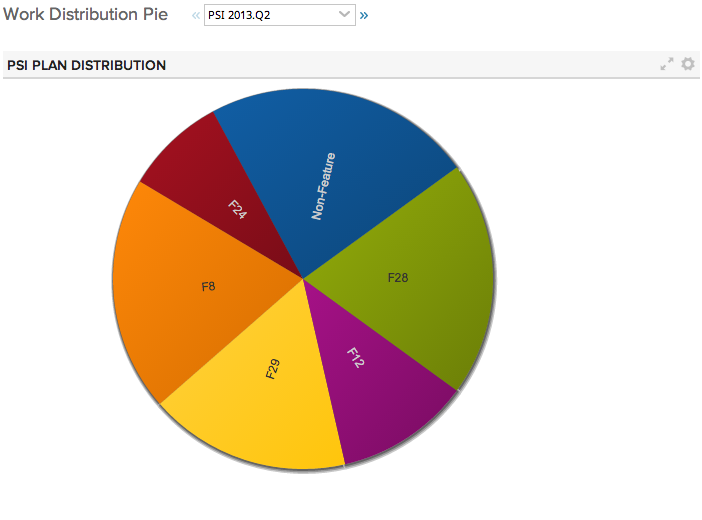
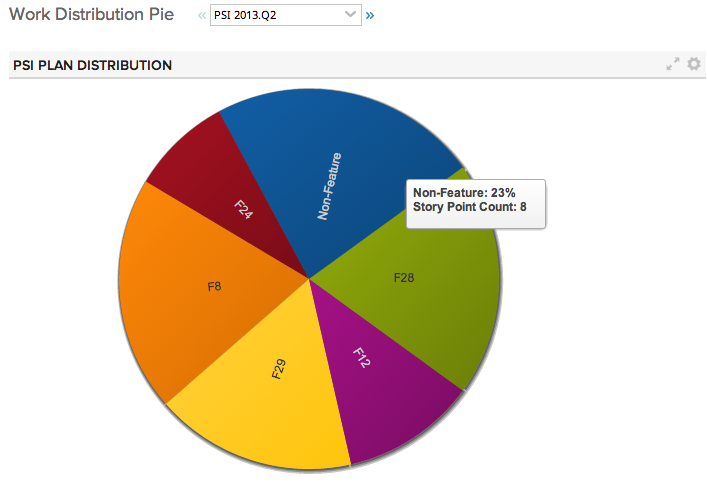
updated screenshot with tip details

diff --git a/deploy/App.html b/deploy/App.html
@@ -7,7 +7,7 @@
 
     <script type="text/javascript">
         Rally.onReady(function () {
-                Ext.define("CustomApp",{extend:"Rally.app.TimeboxScopedApp",componentCls:"app",scopeType:"release",comboboxConfig:{fieldLabel:"Select an Release:",labelWidth:100,width:300},addContent:function(){this._makeStore()},_makeStore:function(){Ext.create("Rally.data.WsapiDataStore",{model:"HierarchicalRequirement",autoLoad:!0,fetch:["Name","FormattedID","Release","ObjectID","Feature","PortfolioItem","PlanEstimate"],filters:[this.getContext().getTimeboxScope().getQueryFilter()],listeners:{load:function(store,data){console.log(["store",data]),this._countPointsByCategory(data)},scope:this}})},onScopeChange:function(){this._makeStore()},_countPointsByCategory:function(records){console.log("_countPointsByCategory");var me=this,counts={},counter=0,total=0;Ext.Array.each(records,function(record){var category="",points=record.get("PlanEstimate")||0;if(null===record.get("Feature"))category="Non-Feature";else{var PIobject=record.get("Feature");category=PIobject.FormattedID}console.log("Record: "+record.get("FormattedID")+" PI: "+category),counts[category]||(counts[category]=0),counts[category]+=points,console.log(counts),total+=points,counter++}),console.log(["for ",counter," records: ",counts]);var count_array=[];for(var category in counts)counts.hasOwnProperty(category)&&count_array.push({name:category,count:counts[category],percentage:100*counts[category]/total});this._showPie(count_array)},_showPie:function(count_array){console.log(["_showPie",count_array]);var me=this,int_array=[];Ext.Array.each(count_array,function(item){int_array.push([item.name,item.percentage])});var mystore=Ext.create("Rally.data.custom.Store",{data:count_array});console.log("change!",mystore),this.chart&&this.chart.destroy(),this.chart=Ext.create("Ext.chart.Chart",{title:{text:"Work Types"},width:600,height:400,store:mystore,theme:"Base:gradients",series:[{type:"pie",allowPointSelect:!1,angleField:"percentage",showInLegend:!0,tips:{trackMouse:!0,width:140,height:50,renderer:function(storeItem,item){this.setTitle(storeItem.get("name")+": "+Math.round(storeItem.get("percentage"),3)+"%<br>Story Point Count: "+storeItem.get("count"))}},label:{field:"name",display:"rotate",contrast:!0,font:"12px Arial"}}]}),console.log("chart made"),me.add(this.chart),this._hideMask(),console.log("chart done")},_showMask:function(msg){this.getEl()&&(this.getEl().unmask(),this.getEl().mask(msg))},_hideMask:function(){this.getEl().unmask()}});
+                Ext.define("CustomApp",{extend:"Rally.app.TimeboxScopedApp",componentCls:"app",scopeType:"release",comboboxConfig:{fieldLabel:"Select an Release:",labelWidth:100,width:300},addContent:function(){this._makeStore()},_makeStore:function(){Ext.create("Rally.data.WsapiDataStore",{model:"HierarchicalRequirement",autoLoad:!0,fetch:["Name","FormattedID","Release","ObjectID","Feature","PortfolioItem","PlanEstimate"],filters:[this.getContext().getTimeboxScope().getQueryFilter()],listeners:{load:function(store,data){console.log(["store",data]),this._countPointsByCategory(data)},scope:this}})},onScopeChange:function(){this._makeStore()},_countPointsByCategory:function(records){console.log("_countPointsByCategory");var me=this,counts={},counter=0,total=0;Ext.Array.each(records,function(record){var category="",points=record.get("PlanEstimate")||0;if(null===record.get("Feature"))category="Non-Feature";else{var PIobject=record.get("Feature");category=PIobject.FormattedID}console.log("Record: "+record.get("FormattedID")+" PI: "+category),counts[category]||(counts[category]=0),counts[category]+=points,console.log(counts),total+=points,counter++}),console.log(["for ",counter," records: ",counts]);var count_array=[];for(var category in counts)counts.hasOwnProperty(category)&&count_array.push({name:category,count:counts[category],percentage:100*counts[category]/total});this._showPie(count_array)},_showPie:function(count_array){console.log(["_showPie",count_array]);var me=this,int_array=[];Ext.Array.each(count_array,function(item){int_array.push([item.name,item.percentage])});var mystore=Ext.create("Rally.data.custom.Store",{data:count_array});console.log("change!",mystore),this.chart&&this.chart.destroy(),this.chart=Ext.create("Ext.chart.Chart",{title:{text:"Work Types"},width:600,height:400,store:mystore,theme:"Base:gradients",chart:{title:{text:"Work Types"},plotBackgroundColor:null,plotBorderWidth:null,plotShadow:!1},series:[{type:"pie",allowPointSelect:!1,angleField:"percentage",showInLegend:!0,tips:{trackMouse:!0,width:140,height:50,hideDelay:2e3,renderer:function(storeItem,item){this.setTitle(storeItem.get("name")+": "+Math.round(storeItem.get("percentage"),3)+"%<br>Story Point Count: "+storeItem.get("count"))}},label:{field:"name",display:"rotate",contrast:!0,font:"12px Arial"}}]}),console.log("chart made"),me.add(this.chart),this._hideMask(),console.log("chart done")},_showMask:function(msg){this.getEl()&&(this.getEl().unmask(),this.getEl().mask(msg))},_hideMask:function(){this.getEl().unmask()}});
 
             Rally.launchApp('CustomApp', {
                 name:"Random App Name56779",

diff --git a/App.js b/App.js
@@ -88,6 +88,12 @@ Ext.define('CustomApp', {
 //			animate: true,
 			store: mystore,
 			theme: 'Base:gradients',
+			chart: {
+				title: { text: 'Work Types' },
+				plotBackgroundColor: null,
+				plotBorderWidth: null,
+				plotShadow: false
+			},
 			series: [{
 				type: 'pie',
 				allowPointSelect: false,
@@ -97,6 +103,7 @@ Ext.define('CustomApp', {
 					trackMouse: true,
 					width: 140,
 					height: 50,
+					hideDelay: 2000,
 					renderer: function(storeItem, item) {
 						this.setTitle(storeItem.get('name') + ': ' + 
 						Math.round(storeItem.get('percentage'), 3) + 

diff --git a/deploy/App-uncompressed.html b/deploy/App-uncompressed.html
@@ -97,6 +97,12 @@
 //			animate: true,
 			store: mystore,
 			theme: 'Base:gradients',
+			chart: {
+				title: { text: 'Work Types' },
+				plotBackgroundColor: null,
+				plotBorderWidth: null,
+				plotShadow: false
+			},
 			series: [{
 				type: 'pie',
 				allowPointSelect: false,
@@ -106,6 +112,7 @@
 					trackMouse: true,
 					width: 140,
 					height: 50,
+					hideDelay: 2000,
 					renderer: function(storeItem, item) {
 						this.setTitle(storeItem.get('name') + ': ' + 
 						Math.round(storeItem.get('percentage'), 3) + 
